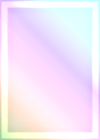
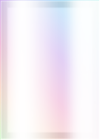
* Added new Card textures. * Changed the "Holographic" card's name to "Irridescent" and added a replacement "Holographic" card. * Version indicator on the main menu now shows revision number * Updated the "Secondary" card's placeholder name to "Contrast". The database manager now checks for the ouda

diff --git a/MainWindow.xaml b/MainWindow.xaml
@@ -621,7 +621,7 @@
                         </LinearGradientBrush>
                     </Button.Background>
                 </Button>
-                <Label x:Name="LBL_Credit" Content="By Finn O'Brien, V.1.7.5" Canvas.Top="415" HorizontalContentAlignment="Center" FontFamily="Algerian" Width="832" Canvas.Left="10" Background="#00000000" FontSize="16" ClipToBounds="True" Height="30"/>
+                <Label x:Name="LBL_Credit" Content="By Finn O'Brien, V.1.7.5.2" Canvas.Top="415" HorizontalContentAlignment="Center" FontFamily="Algerian" Width="832" Canvas.Left="10" Background="#00000000" FontSize="16" ClipToBounds="True" Height="30"/>
                 <Label x:Name="LBL_Header" Content="The" HorizontalContentAlignment="Center" FontFamily="Algerian" Width="832" Canvas.Left="10" Background="#00000000" FontSize="36" Height="45" Canvas.Top="-12" ClipToBounds="True"/>
                 <Label x:Name="LBL_Debug" Content="Debug Enabled" Canvas.Top="415" HorizontalContentAlignment="Center" FontFamily="Algerian" Width="137" Canvas.Left="705" Background="#00000000" FontSize="16" Visibility="Hidden"/>
                 <Button x:Name="BTN_Options" Content="Options" Width="100" Height="140" FontFamily="Algerian" FontSize="24" Click="BTN_Options_Click" Canvas.Left="515" Canvas.Top="185" RenderTransformOrigin="0.5,0.5" ToolTip="Configure the game's settings" ClipToBounds="True">

diff --git a/StatsManager.cs b/StatsManager.cs
@@ -26,7 +26,8 @@ namespace Project24
                 conn.Execute("insert or ignore into Stats (GameMode) values ('Custom')");
                 conn.Execute("create table if not exists Foils (ID INTEGER NOT NULL UNIQUE, Name TEXT NOT NULL UNIQUE, File TEXT, PRIMARY KEY(ID AUTOINCREMENT))");
                 conn.Execute("insert or ignore into Foils (Name, File) values ('Default', '/Resources/FL_Default.png')");
-                conn.Execute("insert or ignore into Foils (Name, File) values ('Secondary', '/Resources/FL_Secondary.png')");
+                conn.Execute("update or ignore Foils set Name = 'Contrast', File = '/Resources/FL_Contrast.png' where Name = 'Secondary'");
+                conn.Execute("insert or ignore into Foils (Name, File) values ('Contrast', '/Resources/FL_Contrast.png')");
             }
         }
 
